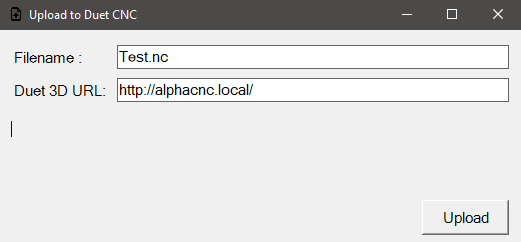
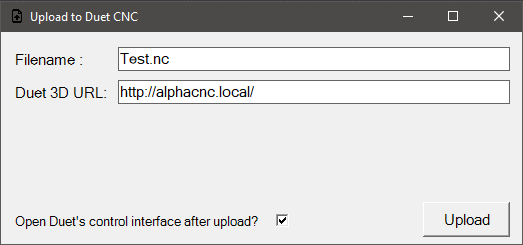
Added option to open DWC

diff --git a/DuetFileUpload/frmMain.Designer.cs b/DuetFileUpload/frmMain.Designer.cs
@@ -29,99 +29,113 @@ namespace CamBamPlugIn
 		/// </summary>
 		private void InitializeComponent()
 		{
-			System.ComponentModel.ComponentResourceManager resources = new System.ComponentModel.ComponentResourceManager(typeof(frmMain));
-			this.label1 = new System.Windows.Forms.Label();
-			this.txtURL = new System.Windows.Forms.TextBox();
-			this.btnUploadFile = new System.Windows.Forms.Button();
-			this.txtStatus = new System.Windows.Forms.TextBox();
-			this.txtFilename = new System.Windows.Forms.TextBox();
-			this.lblFilename = new System.Windows.Forms.Label();
-			this.SuspendLayout();
-			// 
-			// label1
-			// 
-			this.label1.AutoSize = true;
-			this.label1.Font = new System.Drawing.Font("Microsoft Sans Serif", 11.25F, System.Drawing.FontStyle.Regular, System.Drawing.GraphicsUnit.Point, ((byte)(0)));
-			this.label1.Location = new System.Drawing.Point(12, 51);
-			this.label1.Name = "label1";
-			this.label1.Size = new System.Drawing.Size(100, 18);
-			this.label1.TabIndex = 0;
-			this.label1.Text = "Duet 3D URL:";
-			// 
-			// txtURL
-			// 
-			this.txtURL.BackColor = System.Drawing.SystemColors.Window;
-			this.txtURL.BorderStyle = System.Windows.Forms.BorderStyle.FixedSingle;
-			this.txtURL.Font = new System.Drawing.Font("Microsoft Sans Serif", 11.25F, System.Drawing.FontStyle.Regular, System.Drawing.GraphicsUnit.Point, ((byte)(0)));
-			this.txtURL.ForeColor = System.Drawing.SystemColors.ActiveCaptionText;
-			this.txtURL.Location = new System.Drawing.Point(117, 48);
-			this.txtURL.Name = "txtURL";
-			this.txtURL.Size = new System.Drawing.Size(392, 24);
-			this.txtURL.TabIndex = 1;
-			this.txtURL.Text = "http:\\\\";
-			// 
-			// btnUploadFile
-			// 
-			this.btnUploadFile.Font = new System.Drawing.Font("Microsoft Sans Serif", 11.25F, System.Drawing.FontStyle.Regular, System.Drawing.GraphicsUnit.Point, ((byte)(0)));
-			this.btnUploadFile.Location = new System.Drawing.Point(422, 170);
-			this.btnUploadFile.Name = "btnUploadFile";
-			this.btnUploadFile.Size = new System.Drawing.Size(87, 35);
-			this.btnUploadFile.TabIndex = 2;
-			this.btnUploadFile.Text = "Upload";
-			this.btnUploadFile.UseVisualStyleBackColor = true;
-			this.btnUploadFile.Click += new System.EventHandler(this.btnUploadFile_Click);
-			// 
-			// txtStatus
-			// 
-			this.txtStatus.BackColor = System.Drawing.SystemColors.Control;
-			this.txtStatus.BorderStyle = System.Windows.Forms.BorderStyle.None;
-			this.txtStatus.Font = new System.Drawing.Font("Microsoft Sans Serif", 9.75F, System.Drawing.FontStyle.Regular, System.Drawing.GraphicsUnit.Point, ((byte)(0)));
-			this.txtStatus.ForeColor = System.Drawing.SystemColors.ActiveCaptionText;
-			this.txtStatus.Location = new System.Drawing.Point(11, 91);
-			this.txtStatus.Multiline = true;
-			this.txtStatus.Name = "txtStatus";
-			this.txtStatus.Size = new System.Drawing.Size(498, 73);
-			this.txtStatus.TabIndex = 4;
-			// 
-			// txtFilename
-			// 
-			this.txtFilename.BackColor = System.Drawing.SystemColors.Window;
-			this.txtFilename.BorderStyle = System.Windows.Forms.BorderStyle.FixedSingle;
-			this.txtFilename.Font = new System.Drawing.Font("Microsoft Sans Serif", 11.25F, System.Drawing.FontStyle.Regular, System.Drawing.GraphicsUnit.Point, ((byte)(0)));
-			this.txtFilename.ForeColor = System.Drawing.SystemColors.ActiveCaptionText;
-			this.txtFilename.Location = new System.Drawing.Point(117, 15);
-			this.txtFilename.Name = "txtFilename";
-			this.txtFilename.Size = new System.Drawing.Size(392, 24);
-			this.txtFilename.TabIndex = 6;
-			// 
-			// lblFilename
-			// 
-			this.lblFilename.AutoSize = true;
-			this.lblFilename.Font = new System.Drawing.Font("Microsoft Sans Serif", 11.25F, System.Drawing.FontStyle.Regular, System.Drawing.GraphicsUnit.Point, ((byte)(0)));
-			this.lblFilename.Location = new System.Drawing.Point(12, 18);
-			this.lblFilename.Name = "lblFilename";
-			this.lblFilename.Size = new System.Drawing.Size(76, 18);
-			this.lblFilename.TabIndex = 5;
-			this.lblFilename.Text = "Filename :";
-			// 
-			// frmMain
-			// 
-			this.AutoScaleDimensions = new System.Drawing.SizeF(6F, 13F);
-			this.AutoScaleMode = System.Windows.Forms.AutoScaleMode.Font;
-			this.ClientSize = new System.Drawing.Size(521, 212);
-			this.Controls.Add(this.txtFilename);
-			this.Controls.Add(this.lblFilename);
-			this.Controls.Add(this.txtStatus);
-			this.Controls.Add(this.btnUploadFile);
-			this.Controls.Add(this.txtURL);
-			this.Controls.Add(this.label1);
-			this.Icon = ((System.Drawing.Icon)(resources.GetObject("$this.Icon")));
-			this.Name = "frmMain";
-			this.Text = "Upload to Duet CNC";
-			this.Load += new System.EventHandler(this.frmMain_Load);
-			this.Shown += new System.EventHandler(this.frmMain_Shown);
-			this.ResumeLayout(false);
-			this.PerformLayout();
+            System.ComponentModel.ComponentResourceManager resources = new System.ComponentModel.ComponentResourceManager(typeof(frmMain));
+            this.label1 = new System.Windows.Forms.Label();
+            this.txtURL = new System.Windows.Forms.TextBox();
+            this.btnUploadFile = new System.Windows.Forms.Button();
+            this.txtStatus = new System.Windows.Forms.TextBox();
+            this.txtFilename = new System.Windows.Forms.TextBox();
+            this.lblFilename = new System.Windows.Forms.Label();
+            this.optOpenBrowser = new System.Windows.Forms.CheckBox();
+            this.SuspendLayout();
+            // 
+            // label1
+            // 
+            this.label1.AutoSize = true;
+            this.label1.Font = new System.Drawing.Font("Microsoft Sans Serif", 11.25F, System.Drawing.FontStyle.Regular, System.Drawing.GraphicsUnit.Point, ((byte)(0)));
+            this.label1.Location = new System.Drawing.Point(12, 51);
+            this.label1.Name = "label1";
+            this.label1.Size = new System.Drawing.Size(100, 18);
+            this.label1.TabIndex = 0;
+            this.label1.Text = "Duet 3D URL:";
+            // 
+            // txtURL
+            // 
+            this.txtURL.BackColor = System.Drawing.SystemColors.Window;
+            this.txtURL.BorderStyle = System.Windows.Forms.BorderStyle.FixedSingle;
+            this.txtURL.Font = new System.Drawing.Font("Microsoft Sans Serif", 11.25F, System.Drawing.FontStyle.Regular, System.Drawing.GraphicsUnit.Point, ((byte)(0)));
+            this.txtURL.ForeColor = System.Drawing.SystemColors.ActiveCaptionText;
+            this.txtURL.Location = new System.Drawing.Point(117, 48);
+            this.txtURL.Name = "txtURL";
+            this.txtURL.Size = new System.Drawing.Size(392, 24);
+            this.txtURL.TabIndex = 1;
+            this.txtURL.Text = "http:\\\\";
+            // 
+            // btnUploadFile
+            // 
+            this.btnUploadFile.Font = new System.Drawing.Font("Microsoft Sans Serif", 11.25F, System.Drawing.FontStyle.Regular, System.Drawing.GraphicsUnit.Point, ((byte)(0)));
+            this.btnUploadFile.Location = new System.Drawing.Point(422, 170);
+            this.btnUploadFile.Name = "btnUploadFile";
+            this.btnUploadFile.Size = new System.Drawing.Size(87, 35);
+            this.btnUploadFile.TabIndex = 2;
+            this.btnUploadFile.Text = "Upload";
+            this.btnUploadFile.UseVisualStyleBackColor = true;
+            this.btnUploadFile.Click += new System.EventHandler(this.btnUploadFile_Click);
+            // 
+            // txtStatus
+            // 
+            this.txtStatus.BackColor = System.Drawing.SystemColors.Control;
+            this.txtStatus.BorderStyle = System.Windows.Forms.BorderStyle.None;
+            this.txtStatus.Font = new System.Drawing.Font("Microsoft Sans Serif", 9.75F, System.Drawing.FontStyle.Regular, System.Drawing.GraphicsUnit.Point, ((byte)(0)));
+            this.txtStatus.ForeColor = System.Drawing.SystemColors.ActiveCaptionText;
+            this.txtStatus.Location = new System.Drawing.Point(11, 91);
+            this.txtStatus.Multiline = true;
+            this.txtStatus.Name = "txtStatus";
+            this.txtStatus.Size = new System.Drawing.Size(498, 73);
+            this.txtStatus.TabIndex = 4;
+            // 
+            // txtFilename
+            // 
+            this.txtFilename.BackColor = System.Drawing.SystemColors.Window;
+            this.txtFilename.BorderStyle = System.Windows.Forms.BorderStyle.FixedSingle;
+            this.txtFilename.Font = new System.Drawing.Font("Microsoft Sans Serif", 11.25F, System.Drawing.FontStyle.Regular, System.Drawing.GraphicsUnit.Point, ((byte)(0)));
+            this.txtFilename.ForeColor = System.Drawing.SystemColors.ActiveCaptionText;
+            this.txtFilename.Location = new System.Drawing.Point(117, 15);
+            this.txtFilename.Name = "txtFilename";
+            this.txtFilename.Size = new System.Drawing.Size(392, 24);
+            this.txtFilename.TabIndex = 6;
+            // 
+            // lblFilename
+            // 
+            this.lblFilename.AutoSize = true;
+            this.lblFilename.Font = new System.Drawing.Font("Microsoft Sans Serif", 11.25F, System.Drawing.FontStyle.Regular, System.Drawing.GraphicsUnit.Point, ((byte)(0)));
+            this.lblFilename.Location = new System.Drawing.Point(12, 18);
+            this.lblFilename.Name = "lblFilename";
+            this.lblFilename.Size = new System.Drawing.Size(76, 18);
+            this.lblFilename.TabIndex = 5;
+            this.lblFilename.Text = "Filename :";
+            // 
+            // optOpenBrowser
+            // 
+            this.optOpenBrowser.AutoSize = true;
+            this.optOpenBrowser.CheckAlign = System.Drawing.ContentAlignment.MiddleRight;
+            this.optOpenBrowser.Font = new System.Drawing.Font("Microsoft Sans Serif", 9.75F, System.Drawing.FontStyle.Regular, System.Drawing.GraphicsUnit.Point, ((byte)(0)));
+            this.optOpenBrowser.Location = new System.Drawing.Point(11, 179);
+            this.optOpenBrowser.Name = "optOpenBrowser";
+            this.optOpenBrowser.Size = new System.Drawing.Size(279, 20);
+            this.optOpenBrowser.TabIndex = 7;
+            this.optOpenBrowser.Text = "Open Duet\'s control interface after upload?";
+            this.optOpenBrowser.UseVisualStyleBackColor = true;
+            // 
+            // frmMain
+            // 
+            this.AutoScaleDimensions = new System.Drawing.SizeF(6F, 13F);
+            this.AutoScaleMode = System.Windows.Forms.AutoScaleMode.Font;
+            this.ClientSize = new System.Drawing.Size(521, 212);
+            this.Controls.Add(this.optOpenBrowser);
+            this.Controls.Add(this.txtFilename);
+            this.Controls.Add(this.lblFilename);
+            this.Controls.Add(this.txtStatus);
+            this.Controls.Add(this.btnUploadFile);
+            this.Controls.Add(this.txtURL);
+            this.Controls.Add(this.label1);
+            this.Icon = ((System.Drawing.Icon)(resources.GetObject("$this.Icon")));
+            this.Name = "frmMain";
+            this.Text = "Upload to Duet CNC";
+            this.Load += new System.EventHandler(this.frmMain_Load);
+            this.Shown += new System.EventHandler(this.frmMain_Shown);
+            this.ResumeLayout(false);
+            this.PerformLayout();
 
 		}
 
@@ -133,6 +147,7 @@ namespace CamBamPlugIn
 		private System.Windows.Forms.TextBox txtStatus;
 		private System.Windows.Forms.TextBox txtFilename;
 		private System.Windows.Forms.Label lblFilename;
-	}
+        private System.Windows.Forms.CheckBox optOpenBrowser;
+    }
 }
 

diff --git a/DuetFileUpload/frmMain.cs b/DuetFileUpload/frmMain.cs
@@ -81,6 +81,9 @@ namespace CamBamPlugIn
 				{
 					txtURL.Text = "http:\\\\";
 				}
+
+				//Set the preferred open browser settings
+				optOpenBrowser.Checked = Properties.Settings.Default.OpenDWC;
 			}
 			catch(Exception ex)
 			{
@@ -92,7 +95,7 @@ namespace CamBamPlugIn
 		//Set the focus to the status text box
 		private void frmMain_Shown(object sender, EventArgs e)
 		{
-			txtStatus.Focus();
+			optOpenBrowser.Focus();
 		}
 
 		//User event: file upload
@@ -136,6 +139,12 @@ namespace CamBamPlugIn
 					if (uploadFile(client, DuetFilename, Gcode) == 0)
 					{
 						txtStatus.AppendText("Success!\r\n");
+						
+						//Open a browser for the Duet's web interface, if required
+						if (optOpenBrowser.Checked)
+						{
+							System.Diagnostics.Process.Start(DuetURL.AbsoluteUri);
+						}
 					}
 					else
 					{
@@ -153,10 +162,16 @@ namespace CamBamPlugIn
 
 				//Close the Client
 				client.Dispose();
-								
+				
 				//Wait then close the plugin
 				Thread.Sleep(2000);	
 				this.Close();
+				
+				//Save the open browser setting
+				Properties.Settings.Default.OpenDWC = optOpenBrowser.Checked;
+				Properties.Settings.Default.Save();
+
+
 			}
 			catch(Exception ex)
 			{

diff --git a/DuetFileUpload/Properties/Settings.Designer.cs b/DuetFileUpload/Properties/Settings.Designer.cs
@@ -34,5 +34,17 @@ namespace CamBamPlugIn.Properties {
                 this["DuetURL"] = value;
             }
         }
+        
+        [global::System.Configuration.UserScopedSettingAttribute()]
+        [global::System.Diagnostics.DebuggerNonUserCodeAttribute()]
+        [global::System.Configuration.DefaultSettingValueAttribute("True")]
+        public bool OpenDWC {
+            get {
+                return ((bool)(this["OpenDWC"]));
+            }
+            set {
+                this["OpenDWC"] = value;
+            }
+        }
     }
 }

diff --git a/README.md b/README.md
@@ -19,6 +19,8 @@ This is the URL of the Duet and may be eentered either as an IP address, such as
 #### Upload
 Click to upload the file to the Duet.
 
+#### Open Duet's control interface after upload?
+If checked, Duet's web based control interface will be opened in the default browser once the upload has completed.
 
 ### Notes
 Part of this plugin were derived from the excellent cb2cm plugin: https://github.com/jkmnt/cb2cm.
